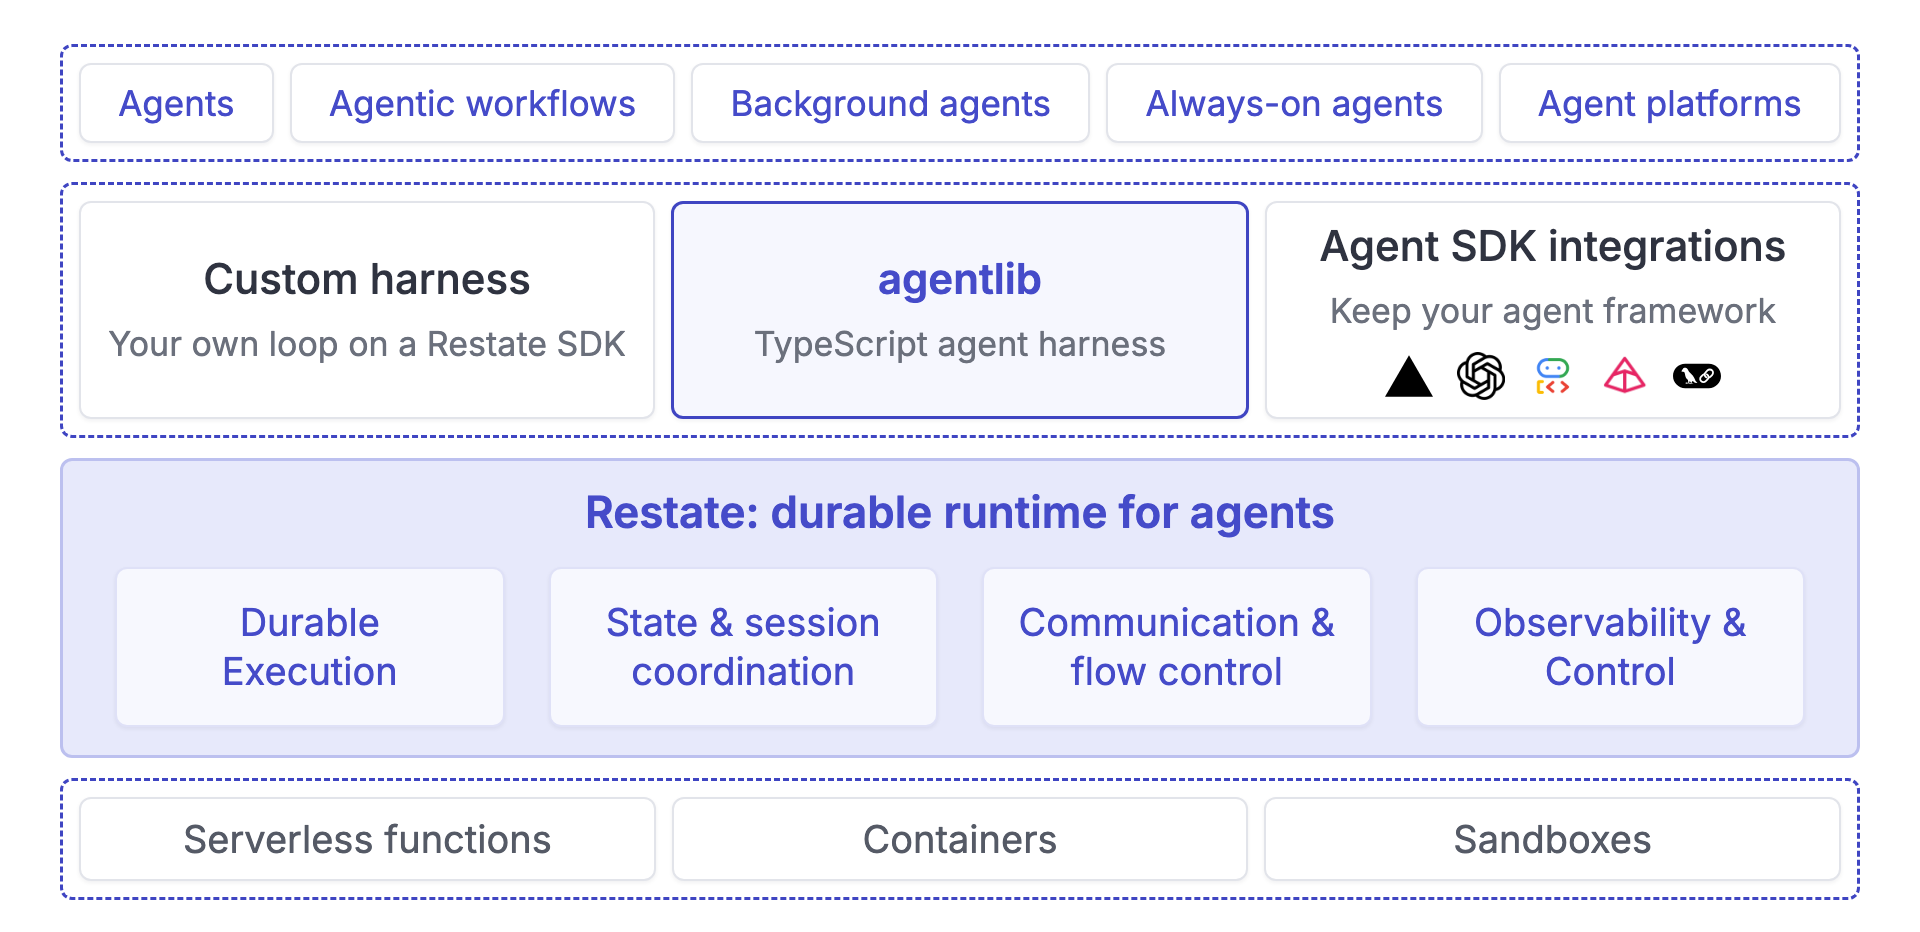
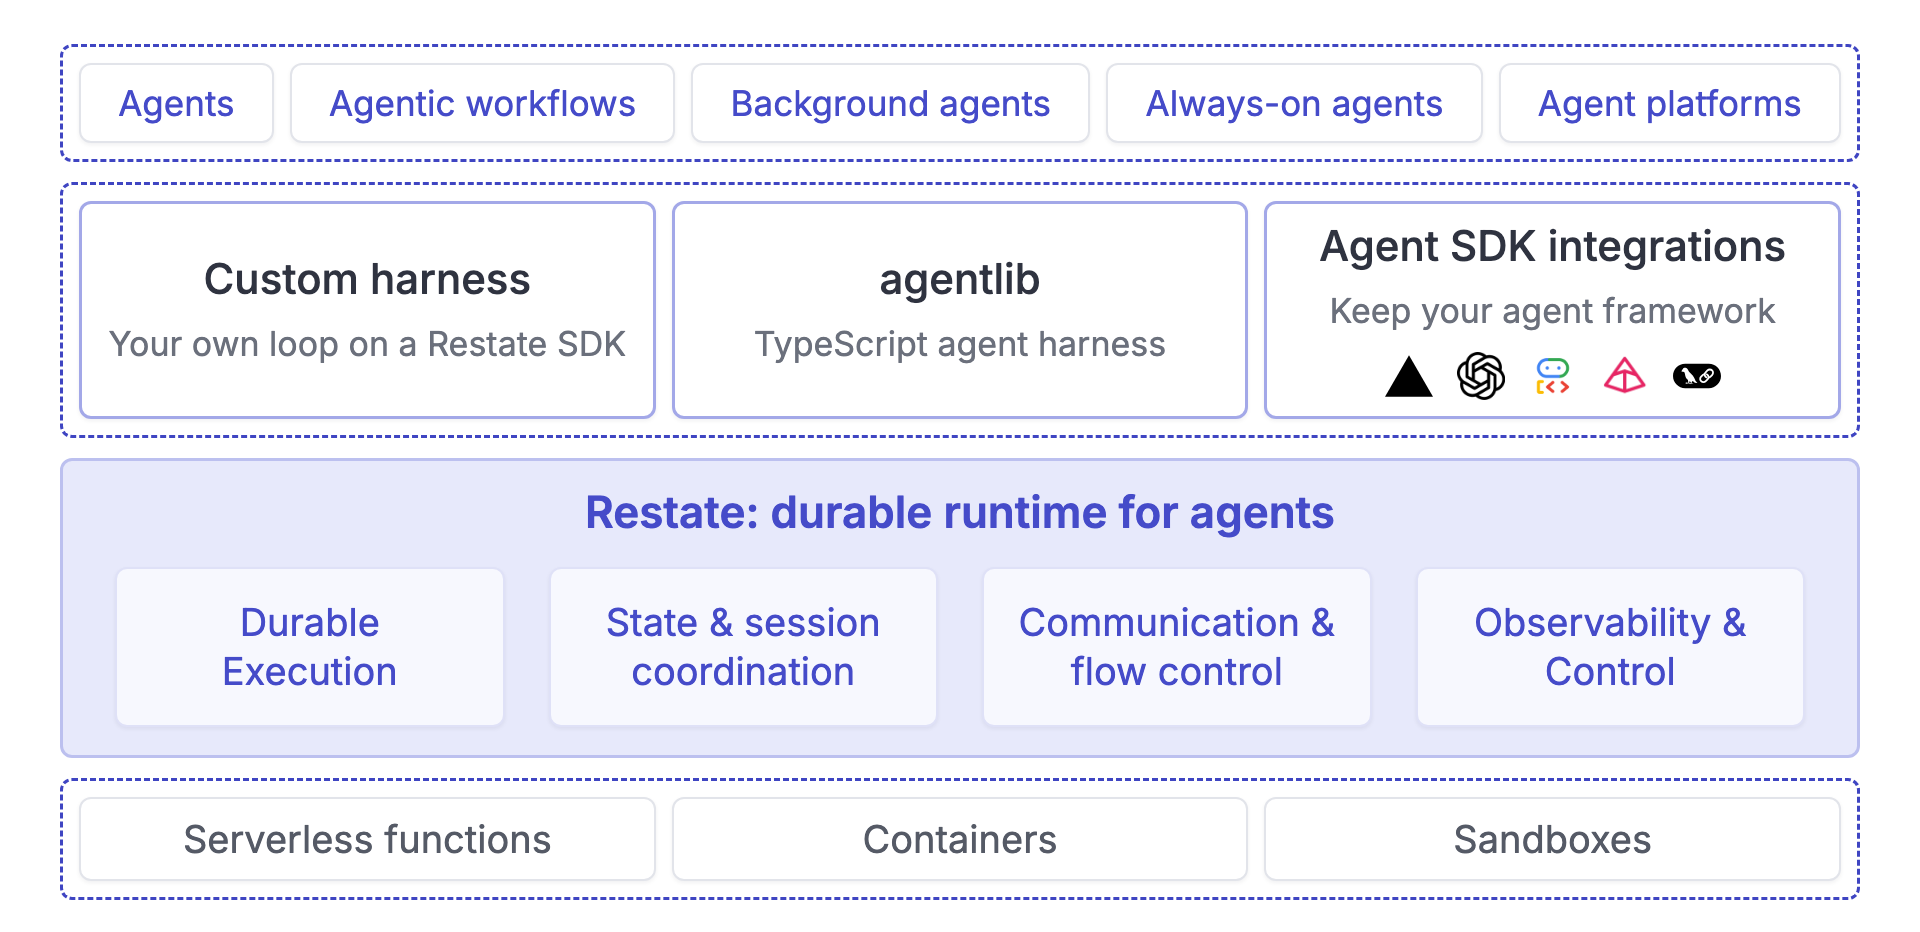
Update lazy state guidance

diff --git a/snippets/agentlib/src/testing/snippets.test.ts b/snippets/agentlib/src/testing/snippets.test.ts
@@ -87,7 +87,7 @@ it("paginates long conversations across chunks", async () => {
 it("reads the conversation with lazy state", async () => {
   for (let i = 1; i <= 17; i++) await ingress().client(aiSession, "erin").doTurn(`m${i}`);
   const page = await ingress().client(aiSession, "erin").history({});
-  expect(page.next).toBe(34); // two runs past the 32-message chunk
+  expect(page.next).toBe(34); // 34 messages in five chunks of 8
   expect(await ingress().client(aiSession, "erin").history({from: 31, limit: 2})).toEqual({
     messages: page.messages.slice(31, 33), next: 33,
   });
@@ -102,11 +102,14 @@ it("stores a run's summary in the conversation", async () => {
   // The run summarizes all but the newest two messages: summary + m5
   expect(await ask(5)).toMatch(/^the\|users:2\|m5 /);
   const state = await env.stateOf(compactedChat, "dave").getAll<Record<string, unknown>>();
-  expect(state["conversation/meta"]).toEqual({count: 10, summary: {through: 7, text: "Earlier turns, summarized"}});
+  expect(state["conversation/meta"]).toEqual({count: 10, summary: {through: 7}});
+  expect(state["conversation/summary"]).toBe("Earlier turns, summarized");
   // The next run starts from the stored summary: summary + m5 + m6
   expect(await ask(6)).toMatch(/^the\|users:3\|m6 /);
   const after = await env.stateOf(compactedChat, "dave").getAll<Record<string, unknown>>();
-  expect((after["conversation/0"] as unknown[]).length).toBe(12); // the state keeps every message
+  // The state keeps every message, in chunks of 8
+  expect((after["conversation/0"] as unknown[]).length).toBe(8);
+  expect((after["conversation/1"] as unknown[]).length).toBe(4);
 }, 120_000);
 
 it("summarizes with custom compaction instructions", async () => {
@@ -117,7 +120,7 @@ it("summarizes with custom compaction instructions", async () => {
   expect(before["conversation/meta"]).toEqual({count: 14});
   await chat.ask(`m8 ${"x".repeat(30_000)}`);
   const state = await env.stateOf(customSummaryChat, "frank").getAll<Record<string, unknown>>();
-  expect((state["conversation/meta"] as {summary?: {text: string}}).summary?.text).toBe("Open requests and order IDs");
+  expect(state["conversation/summary"]).toBe("Open requests and order IDs");
 }, 120_000);
 
 it("routes to a specialist", async () => {

diff --git a/snippets/agentlib/src/sessions.ts b/snippets/agentlib/src/sessions.ts
@@ -21,7 +21,11 @@ export const chatSession = restate.object({
       return yield* new LazyStateConversation().page(from, limit);
     },
   },
-  options: {handlers: {history: {shared: true}}},
+  options: {
+    // Fetch the conversation chunks when they are read
+    state: {preload: ["conversation/meta", "conversation/summary"]},
+    handlers: {history: {shared: true}},
+  },
 });
 // <end_conversation>
 
@@ -65,7 +69,8 @@ export const aiSession = restate.object({
   name: "AiSession",
   handlers: {doTurn, history, steer, interrupt},
   options: {
-    state: {preload: false}, // fetch conversation chunks when they are read
+    // Fetch the conversation chunks when they are read
+    state: {preload: ["conversation/meta", "conversation/summary", "active"]},
     handlers: {history: {shared: true}, steer: {shared: true}, interrupt: {shared: true}},
   },
 });
@@ -87,6 +92,7 @@ export const compactedChat = restate.object({
       return result.status === "completed" ? result.output : (result.output ?? result.reason);
     },
   },
+  options: {state: {preload: ["conversation/meta", "conversation/summary"]}},
 });
 // <end_conversation_compaction>
 
@@ -110,6 +116,7 @@ export const customSummaryChat = restate.object({
       return result.status === "completed" ? result.output : (result.output ?? result.reason);
     },
   },
+  options: {state: {preload: ["conversation/meta", "conversation/summary"]}},
 });
 
 // <start_run_compaction>

diff --git a/snippets/agentlib/src/multi_agent.ts b/snippets/agentlib/src/multi_agent.ts
@@ -124,6 +124,14 @@ export const tripSession = restate.object({
       return {flights: flights.output, hotels: hotels.output};
     },
   },
+  options: {
+    state: {
+      preload: [
+        "conversation/flights/meta", "conversation/flights/summary",
+        "conversation/hotels/meta", "conversation/hotels/summary",
+      ],
+    },
+  },
 });
 // <end_parallel_conversations>
 
@@ -143,6 +151,7 @@ export const racingSession = restate.object({
       return winner.output;
     },
   },
+  options: {state: {preload: ["conversation/meta", "conversation/summary"]}},
 });
 // <end_race_conversation>
 

diff --git a/snippets/agentlib/src/steering.ts b/snippets/agentlib/src/steering.ts
@@ -32,7 +32,10 @@ export const supportSession = restate.object({
       return yield* signalActiveTurn("interrupt", reason);
     },
   },
-  options: {handlers: {steer: {shared: true}, interrupt: {shared: true}}},
+  options: {
+    state: {preload: ["conversation/meta", "conversation/summary", "active"]},
+    handlers: {steer: {shared: true}, interrupt: {shared: true}},
+  },
 });
 
 function* signalActiveTurn(name: string, value: string): restate.Operation<boolean> {
